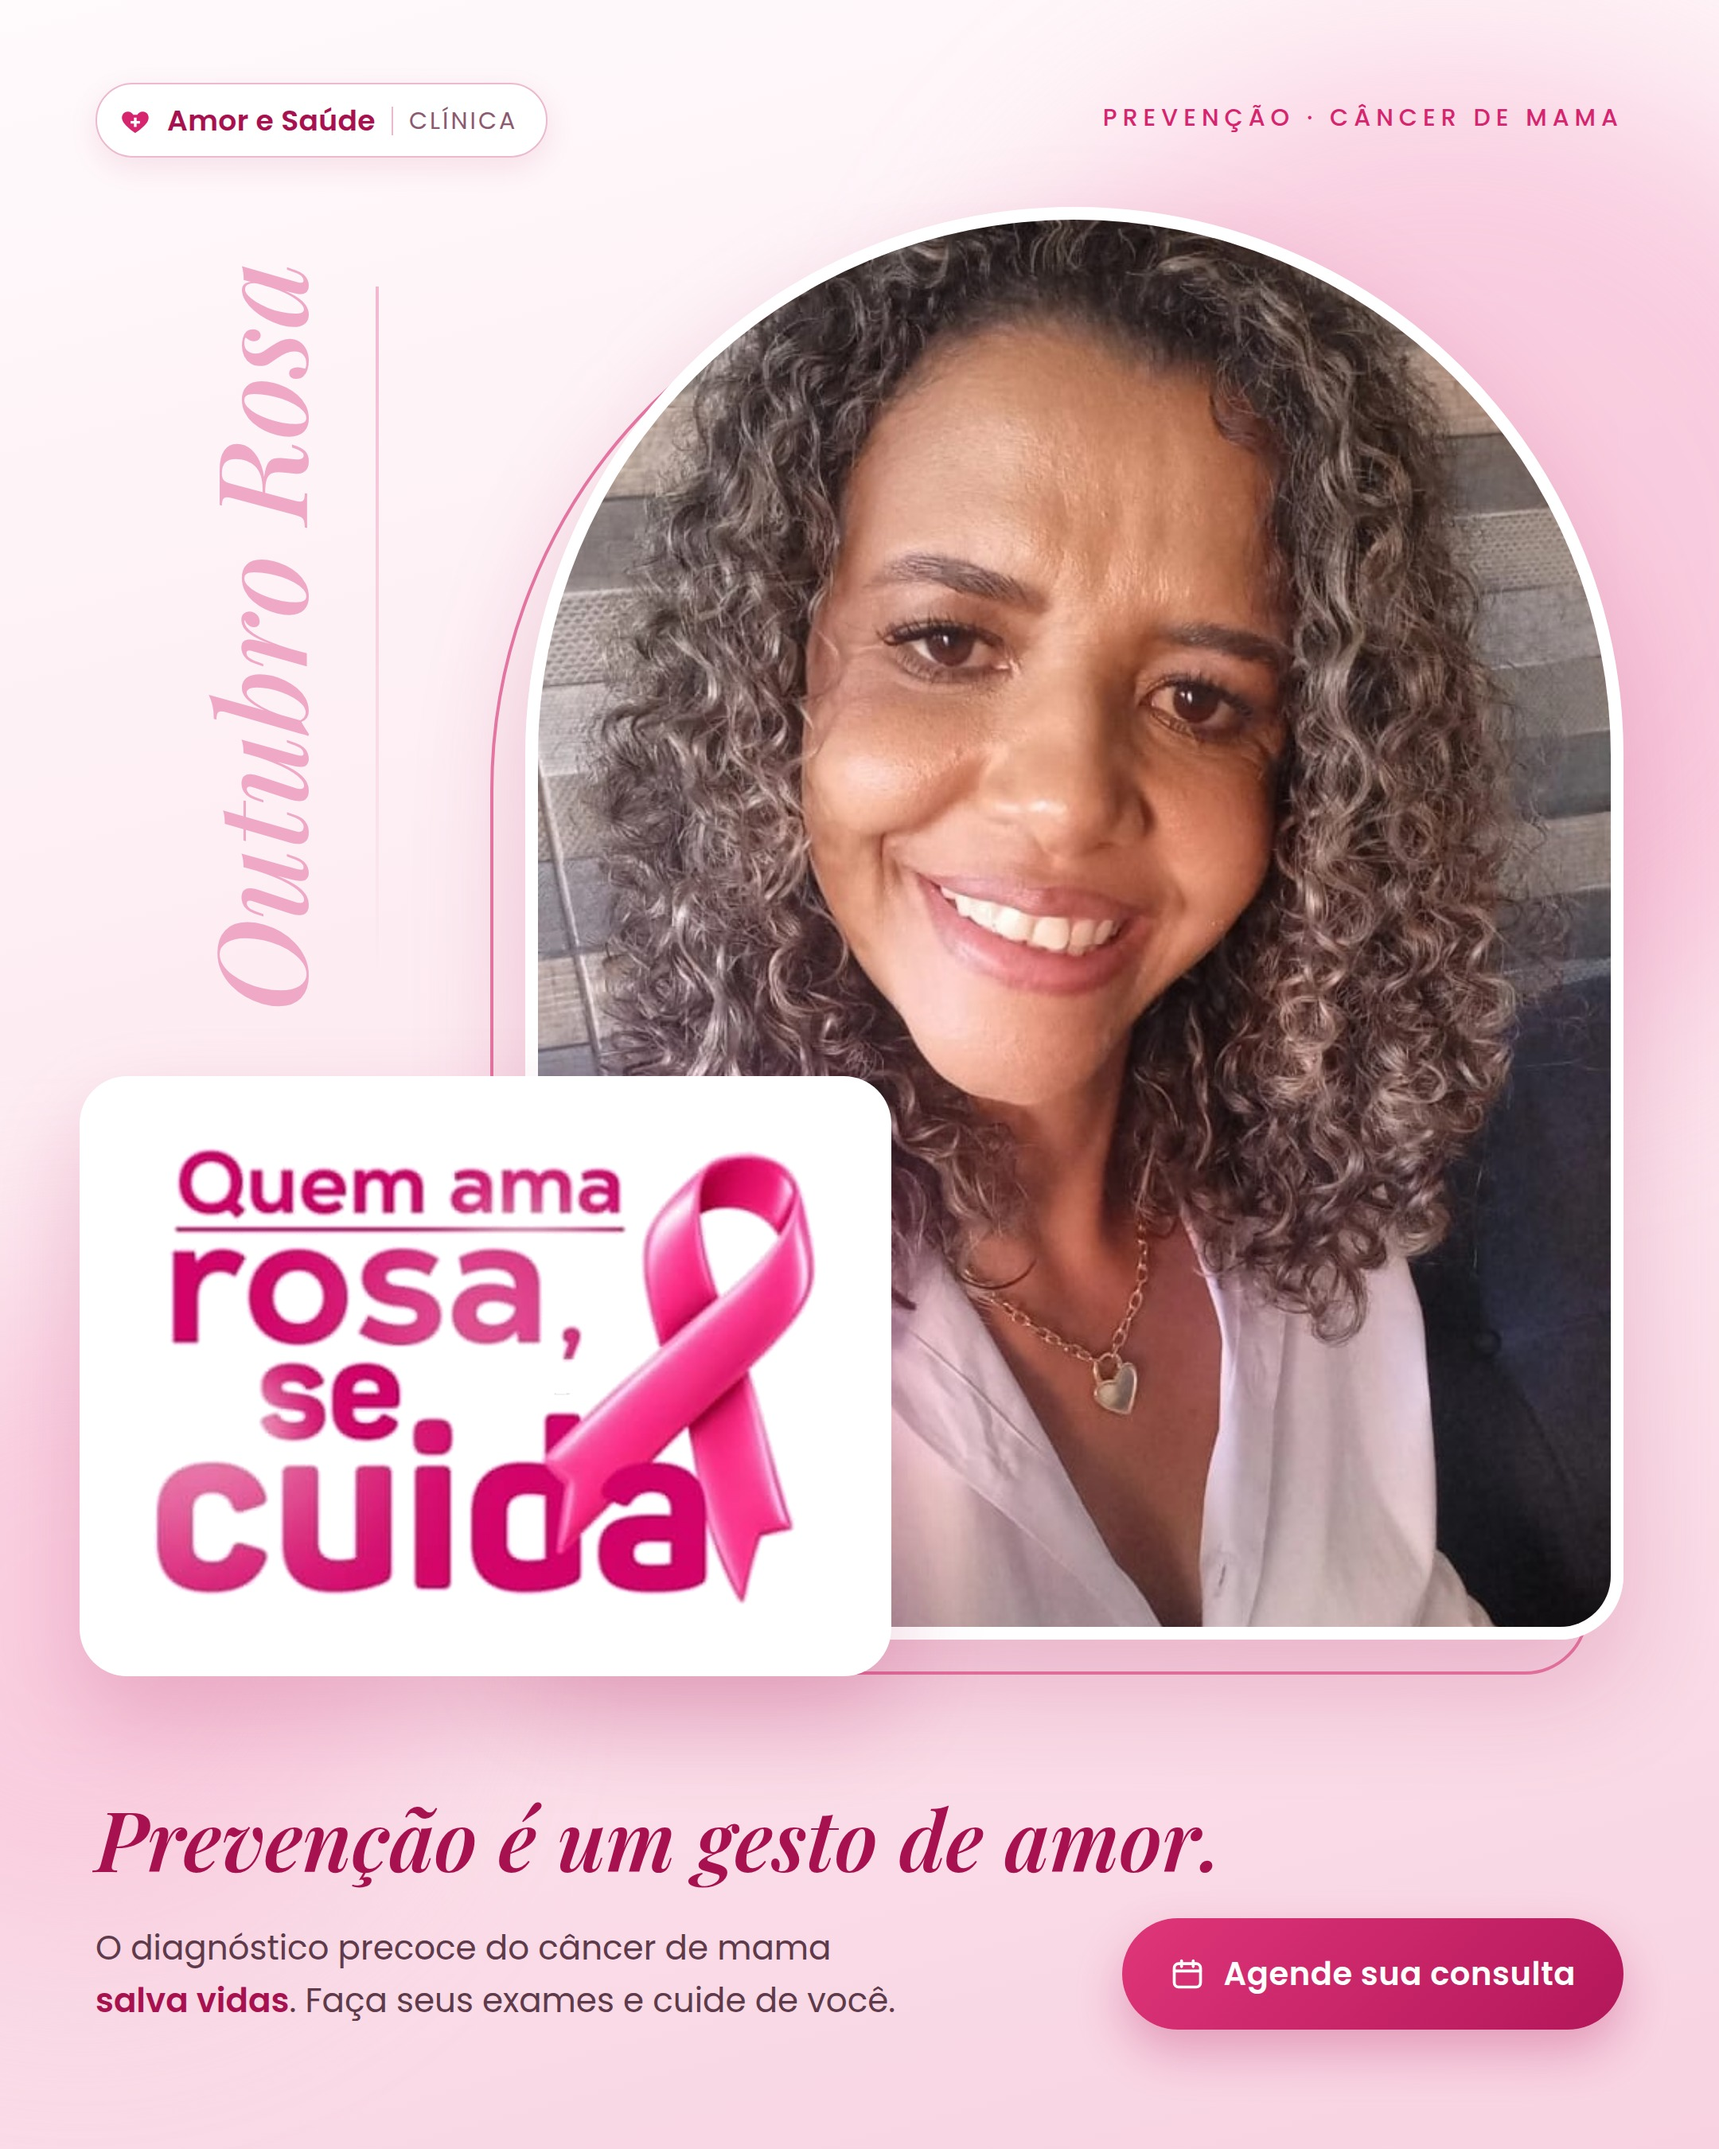
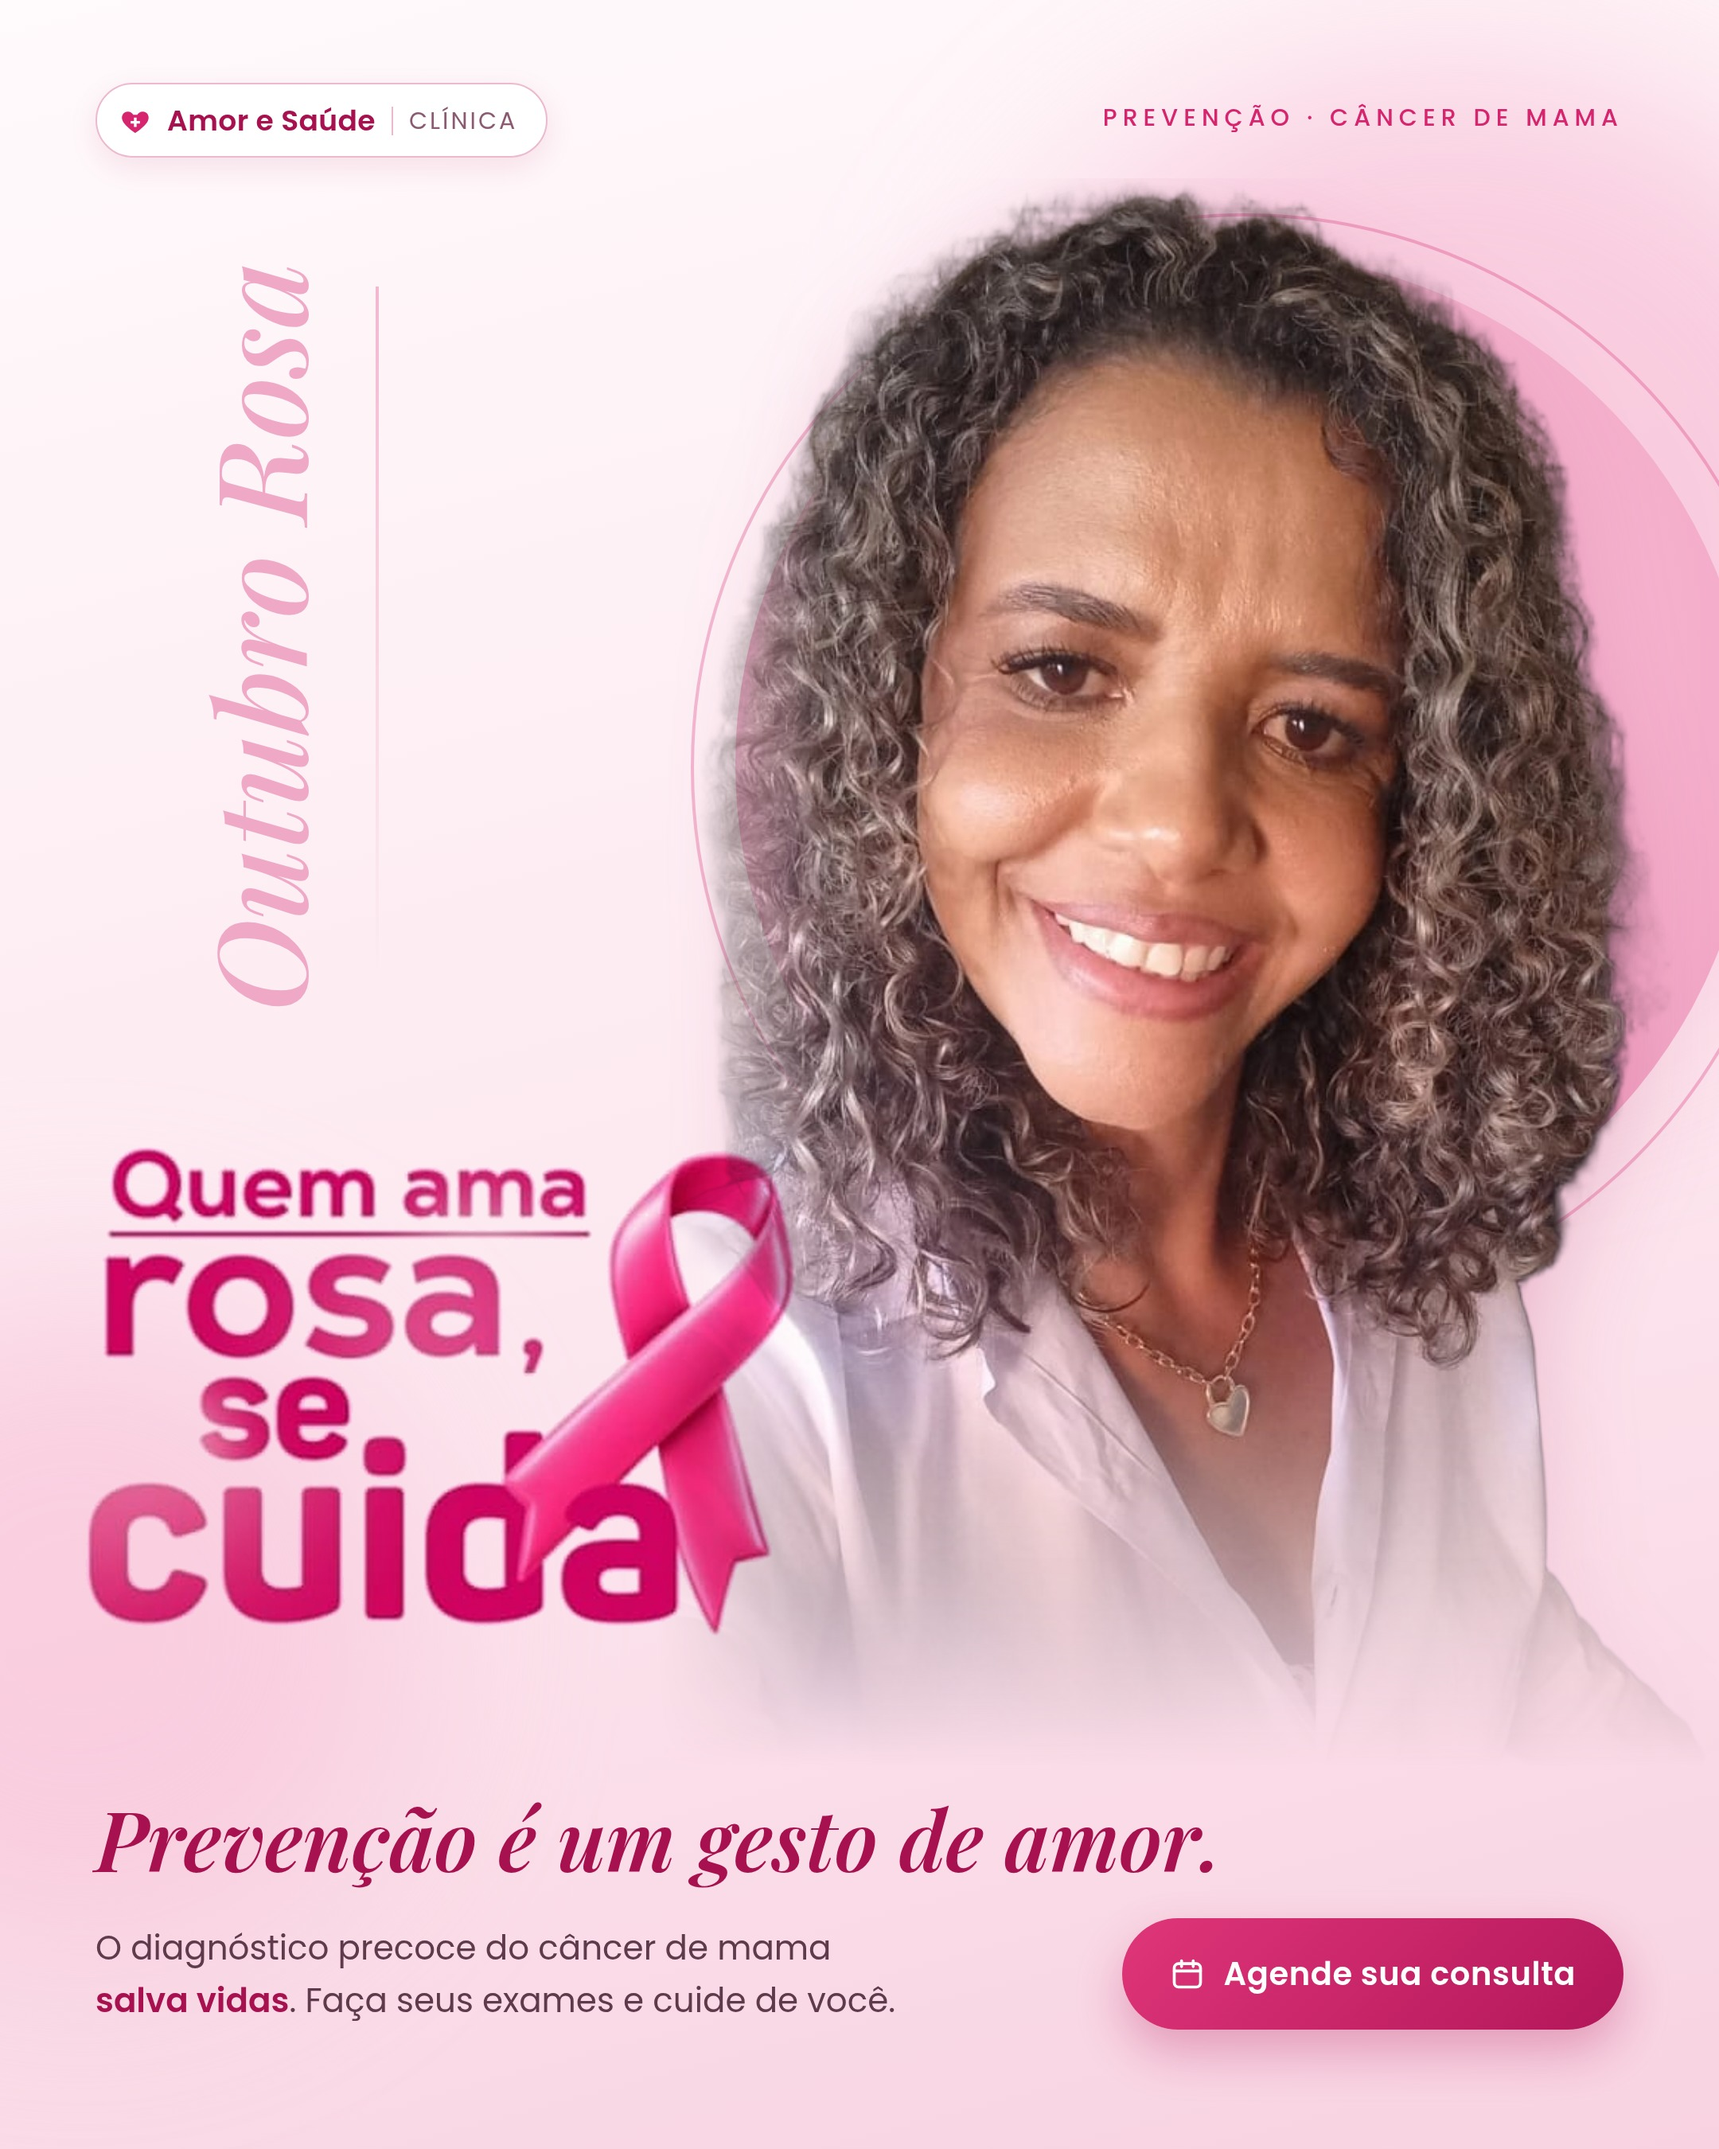
Integra a foto ao cenário do pôster Outubro Rosa
Recorta a pessoa do fundo da selfie e a posiciona direto sobre o fundo
rosa, com halo atrás e degradê na base, no lugar da moldura em arco.
A arte da campanha passa a ficar solta no fundo, sem cartão branco.

Claude-Session: https://claude.ai/code/session_01Xte5L4oypQAEdt46MSeQTG

diff --git a/posters/outubro-rosa-amor-e-saude/fonte/poster.html b/posters/outubro-rosa-amor-e-saude/fonte/poster.html
@@ -52,27 +52,27 @@
   .linha { position: absolute; left: 236px; top: 180px; width: 2px; height: 440px;
     background: linear-gradient(#F3B7CF, rgba(243, 183, 207, 0)); }
 
-  /* Foto */
-  .moldura {
-    position: absolute; left: 308px; top: 152px; width: 690px; height: 900px;
-    border: 2px solid var(--rosa-medio);
-    border-radius: 345px 345px 40px 40px / 345px 345px 40px 40px;
+  /* Pessoa recortada, integrada ao cenário */
+  .halo {
+    position: absolute; left: 462px; top: 160px; width: 640px; height: 640px; border-radius: 50%;
+    background: radial-gradient(circle at 45% 40%, #FBD3E3 0%, #F5B2CD 55%, #EE98BD 100%);
   }
-  .foto {
-    position: absolute; left: 330px; top: 130px; width: 690px; height: 900px;
-    border-radius: 345px 345px 40px 40px / 345px 345px 40px 40px;
-    overflow: hidden; box-shadow: 0 30px 70px rgba(168, 17, 79, .22);
-    border: 8px solid #fff;
+  .anel {
+    position: absolute; left: 434px; top: 134px; width: 696px; height: 696px; border-radius: 50%;
+    border: 2px solid rgba(214, 36, 110, .28);
   }
-  .foto img { width: 100%; height: 100%; object-fit: cover; object-position: 50% 14%; display: block; }
+  .pessoa {
+    position: absolute; left: 412px; top: 112px; width: 668px;
+    -webkit-mask-image: linear-gradient(to bottom, #000 62%, transparent 84%), linear-gradient(to right, transparent 0%, #000 16%);
+    -webkit-mask-composite: source-in;
+            mask-image: linear-gradient(to bottom, #000 62%, transparent 84%), linear-gradient(to right, transparent 0%, #000 16%);
+            mask-composite: intersect;
+  }
+  .pessoa img { width: 100%; display: block; filter: drop-shadow(0 18px 30px rgba(168, 17, 79, .22)); }
 
   /* Cartão com a arte da campanha */
-  .cartao {
-    position: absolute; left: 50px; top: 676px; width: 510px;
-    padding: 26px 28px; background: #fff; border-radius: 30px;
-    box-shadow: 0 28px 60px rgba(168, 17, 79, .20);
-  }
-  .cartao img { width: 100%; display: block; }
+  .cartao { position: absolute; left: 34px; top: 700px; width: 486px; }
+  .cartao img { width: 100%; display: block; mix-blend-mode: multiply; }
 
   /* Rodapé */
   .rodape { position: absolute; left: 60px; right: 60px; top: 1126px; }
@@ -109,8 +109,9 @@
   <div class="vertical">Outubro Rosa</div>
   <div class="linha"></div>
 
-  <div class="moldura"></div>
-  <div class="foto"><img src="foto.jpg" alt=""></div>
+  <div class="anel"></div>
+  <div class="halo"></div>
+  <div class="pessoa"><img src="pessoa.png" alt=""></div>
 
   <div class="cartao"><img src="logo.png" alt="Quem ama rosa, se cuida"></div>
 
